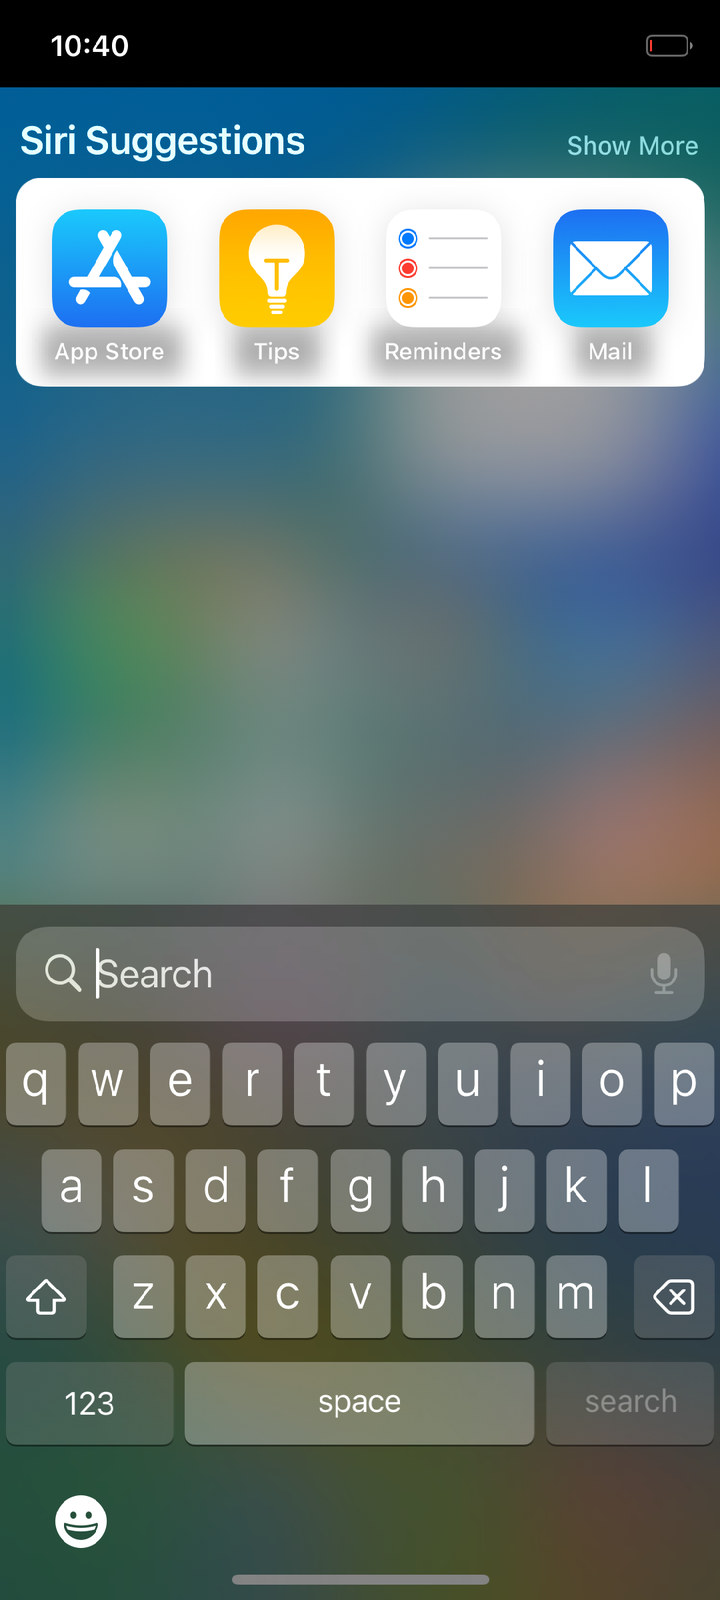
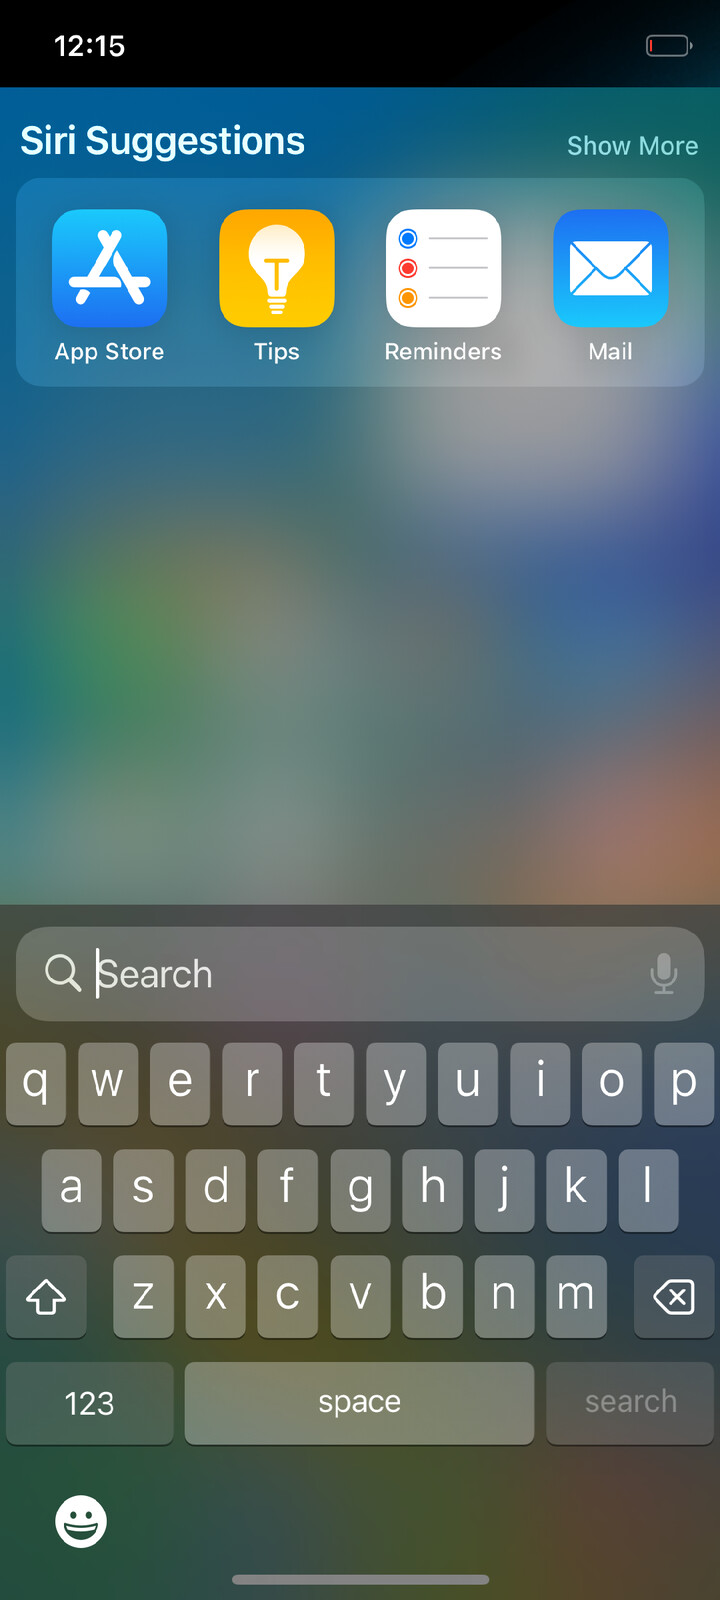
GPU: a census of what CoreAnimation's OpenGL ES renderer draws with no program
Boot-arg glcensus=1. eagl.c writes down every draw CoreAnimation makes with no
program -- by function, the first time each is met with where it is, its textures,
the blending, the numbers CoreAnimation has for it and how the draw is made here --
and every ten seconds the count of each in those seconds and since the start; with
them the functions CoreAnimation asked for and was refused (inject.c passes those
on). The names of the ninety functions are in redwood_gl.h for both.

A walk through the system with it on the phone (lock screen, Today view, App
Library, Search, Control Center, an icon's menu, the application switcher, Settings,
alerts, five applications' first sheets) met ten of them: c4p and vcm, drawn with our
programs since the last commit, hom through its table; ds8, vrd, vrb and opa drawn as
plain pictures; lub and edr, over the whole screen with no texture, not drawn; sb3
and p3c asked for and refused.

Where the library has no EXT_shader_framebuffer_fetch (Mesa's software rasteriser,
gl=1 in QEMU) the program for vcm cannot be made: such a draw is then left out
instead of showing its mask as a picture.

docs/search.jpg: Siri Suggestions as they are since the colour matrix over
premultiplied pixels is drawn (the picture before was older than that).

Claude-Session: https://claude.ai/code/session_01HPcJ8BL7rxkk1tgb6KqnwL

Changed region(s): [[0.0, 0.0938, 0.9778, 0.25], [0.825, 0.0, 1.0, 0.0625], [0.0611, 0.0, 0.1833, 0.0312]]

diff --git a/userland/src/eagl.c b/userland/src/eagl.c
@@ -43,8 +43,9 @@
  * either on; gltrace_place=X0,Y0,X1,Y1 writes down, of those frames, only the draws whose corners
  * reach into that rectangle, a line each (lines "gl-at:"; writing everything down is slow, and a
  * window server that is slow draws other frames), gltrace_look=1 adds the pixel each of them
- * left in the middle of itself; glshaders=1 writes down the text of every
- * shader, glshow=TEXTURE puts that texture over the corner of the picture, glplain=0 leaves the
+ * left in the middle of itself; glcensus=1 keeps count of the draws CoreAnimation makes with no
+ * program and of the functions it asks for in vain (see census_draw()); glshaders=1 writes down
+ * the text of every shader, glshow=TEXTURE puts that texture over the corner of the picture, glplain=0 leaves the
  * draws without a program alone, glcopy=1 copies every IOSurface as if the library could not
  * share one, glwait=1 waits for the GPU at the end of every frame and glwait=0 never (see
  * wait_for_frames), glfetch=0 keeps EXT_shader_framebuffer_fetch from CoreAnimation (see
@@ -220,6 +221,7 @@ struct eagl {
 	GLint plain_matrix, plain_textured, lookup_matrix;
 	GLuint vibrant, masking;        /* two more: what a colour matrix does to what is behind, and to the layer */
 	int blended;                    /* blending is off for such a draw, to be put back after it */
+	bool no_vibrant;                /* the first of the two could not be made */
 	GLint vibrant_matrix, vibrant_colours, masking_matrix, masking_colours;
 	unsigned unit;                  /* the texture unit being spoken of */
 	GLuint bound[8];                /* the 2D texture bound to each of the first units */
@@ -283,6 +285,7 @@ static int wait_for_frames = 1;
 static int fetch_offered = 1;
 
 static const char *eagl_slot_name(unsigned offset);
+static void census_report(void);
 
 static void
 eagl_enter(struct eagl *e, unsigned offset)
@@ -797,6 +800,7 @@ frame_end(struct eagl *e, bool finished)
 	if (e->frames == 30 || e->frames % 200 == 0) {
 		summary(e);
 	}
+	census_report();
 	if (e->frames == 600 && e->errors == 0) {
 		check_errors = 0;
 	}
@@ -1263,29 +1267,180 @@ plain_program(const char *fragment, const char *what)
 	return program;
 }
 
+/*
+ * A census (boot-arg glcensus=1) of what CoreAnimation's OpenGL ES renderer has no shader for and
+ * meets all the same: every draw it makes with no program, by function, and every time it asks
+ * for a function and is told there is none (it then draws the thing another way, or not at
+ * all). Written down: each case the first time it is met, with what it is made of -- where on
+ * which framebuffer, the textures, the blending, the numbers CoreAnimation has for the function
+ * (a filter's inputs) and how the draw is made here; every ten seconds, what there was of each
+ * in those seconds (which is what tells the screens of a scenario apart); and with that the
+ * count of each since the start.
+ */
+enum { CENSUS_NOT_DRAWN, CENSUS_PLAIN, CENSUS_TABLE, CENSUS_VIBRANT, CENSUS_MASKING, CENSUS_KINDS };
+static const char *const census_kinds[CENSUS_KINDS] = {
+	"NOT DRAWN (no program, and no texture or nothing of ours to draw it with)", "drawn as the picture it is given (colour times texture)",
+	"drawn through a table (ours, for the home indicator)", "drawn with our program for a colour matrix over what is behind",
+	"drawn with our program for a colour matrix over premultiplied pixels",
+};
+static int census_on;
+static struct census {
+	unsigned draws[CENSUS_KINDS], lately[CENSUS_KINDS];
+	unsigned refused, refused_lately;
+	uint8_t said;                   /* a bit for each kind met */
+} census[90];
+static uint64_t census_told;
+
+static const char *
+census_name(unsigned function)
+{
+	static const char names[] = REDWOOD_CA_FUNCTIONS;
+	static char name[4];
+
+	memcpy(name, function < 90 ? names + 4 * function : "?  ", 3);
+	return name;
+}
+
+/* From inject.c: CoreAnimation asked whether the function it is about to use exists, and was told no. */
+void
+redwood_gl_function_refused(unsigned function)
+{
+	if (census_on && function < 90) {
+		census[function].refused++;
+		census[function].refused_lately++;
+	}
+}
+
+static void
+census_draw(struct eagl *e, unsigned function, unsigned kind)
+{
+	char textures[200] = "", numbers[200] = "";
+	GLint source = 0, destination = 0, viewport[4] = { 0, 0, 0, 0 };
+	float low[2] = { 0, 0 }, high[2] = { 0, 0 };
+	size_t used = 0;
+
+	if (!census_on || function >= 90) {
+		return;
+	}
+	census[function].draws[kind]++;
+	census[function].lately[kind]++;
+	if (census[function].said & (1u << kind)) {
+		return;
+	}
+	census[function].said |= (uint8_t)(1u << kind);
+	for (unsigned unit = 0; unit < 4; unit++) {
+		GLint width = 0, height = 0, format = 0;
+
+		if (e->bound[unit] == 0) {
+			continue;
+		}
+		glActiveTexture(GL_TEXTURE0 + unit);
+		glGetTexLevelParameteriv(GL_TEXTURE_2D, 0, GL_TEXTURE_WIDTH, &width);
+		glGetTexLevelParameteriv(GL_TEXTURE_2D, 0, GL_TEXTURE_HEIGHT, &height);
+		glGetTexLevelParameteriv(GL_TEXTURE_2D, 0, GL_TEXTURE_INTERNAL_FORMAT, &format);
+		used += (size_t)snprintf(textures + used, sizeof(textures) - used, " [%u] %d x %d (%#x)", unit, width, height,
+		    (unsigned)format);
+	}
+	glActiveTexture(GL_TEXTURE0 + e->unit);
+	for (unsigned i = 0; i < 4 && e->arrays[0].pointer != NULL && e->arrays[0].type == GL_FLOAT && e->arrays[0].size >= 2; i++) {
+		float place[2];
+
+		memcpy(place, (const uint8_t *)e->arrays[0].pointer + i * (size_t)(e->arrays[0].stride ? e->arrays[0].stride :
+		    4 * e->arrays[0].size), sizeof(place));
+		for (unsigned c = 0; c < 2; c++) {
+			low[c] = i == 0 || place[c] < low[c] ? place[c] : low[c];
+			high[c] = i == 0 || place[c] > high[c] ? place[c] : high[c];
+		}
+	}
+	used = 0;
+	for (unsigned i = 0; i < function_given[function] && used < sizeof(numbers) - 16; i++) {
+		used += (size_t)snprintf(numbers + used, sizeof(numbers) - used, " %.3g", (double)function_values[function][i]);
+	}
+	glGetIntegerv(GL_BLEND_SRC_RGB, &source);
+	glGetIntegerv(GL_BLEND_DST_RGB, &destination);
+	glGetIntegerv(GL_VIEWPORT, viewport);
+	say("redwood-gl: census: function %u (\"%s\") with no program, %s: first at %g,%g to %g,%g of framebuffer %u (%d x %d); "
+	    "textures%s; blending %s (%#x, %#x); its numbers:%s\n", function, census_name(function), census_kinds[kind], (double)low[0],
+	    (double)low[1], (double)high[0], (double)high[1], e->framebuffer, viewport[2], viewport[3], textures[0] ? textures : " none",
+	    glIsEnabled(GL_BLEND) ? "on" : "off", (unsigned)source, (unsigned)destination, numbers[0] ? numbers : " none");
+}
+
+/* Every ten seconds: what there was since the last time, and in all. */
+static void
+census_report(void)
+{
+	char lately[900] = "", all[900] = "";
+	size_t used_lately = 0, used_all = 0;
+	uint64_t now = now_us();
+
+	if (!census_on || now - census_told < 10000000) {
+		return;
+	}
+	census_told = now;
+	for (unsigned f = 0; f < 90; f++) {
+		struct census *c = &census[f];
+		unsigned drawn = 0, drawn_lately = 0;
+
+		for (unsigned k = 0; k < CENSUS_KINDS; k++) {
+			drawn += c->draws[k];
+			drawn_lately += c->lately[k];
+			c->lately[k] = 0;
+		}
+		if ((drawn_lately != 0 || c->refused_lately != 0) && used_lately < sizeof(lately) - 40) {
+			used_lately += (size_t)snprintf(lately + used_lately, sizeof(lately) - used_lately, " %u %s x%u", f, census_name(f),
+			    drawn_lately);
+			if (c->refused_lately != 0) {
+				used_lately += (size_t)snprintf(lately + used_lately, sizeof(lately) - used_lately, " (refused x%u)", c->refused_lately);
+			}
+		}
+		if ((drawn != 0 || c->refused != 0) && used_all < sizeof(all) - 60) {
+			used_all += (size_t)snprintf(all + used_all, sizeof(all) - used_all, " %u %s x%u", f, census_name(f), drawn);
+			if (c->draws[CENSUS_NOT_DRAWN] != 0) {
+				used_all += (size_t)snprintf(all + used_all, sizeof(all) - used_all, " (x%u not drawn)", c->draws[CENSUS_NOT_DRAWN]);
+			}
+			if (c->refused != 0) {
+				used_all += (size_t)snprintf(all + used_all, sizeof(all) - used_all, " (refused x%u)", c->refused);
+			}
+		}
+		c->refused_lately = 0;
+	}
+	if (lately[0] != 0) {
+		say("redwood-gl: census: in the last ten seconds:%s\n", lately);
+		say("redwood-gl: census: since the start:%s\n", all);
+	}
+}
+
 static bool
 plain_draw_begin(struct eagl *e, GLint enabled[3])
 {
 	static const GLfloat identity[16] = { 1, 0, 0, 0, 0, 1, 0, 0, 0, 0, 1, 0, 0, 0, 0, 1 };
 	static uint8_t said[90];
-	unsigned function = ca_context != NULL ? *(*(uint8_t **)((char *)ca_context + 0x10) + 0x10) : 0;
+	unsigned function = ca_context != NULL ? *(*(uint8_t **)((char *)ca_context + 0x10) + 0x10) : 90;      /* (90: not known yet) */
 	GLint rows = 0;
 	GLuint program;
 
-	if (e->program != 0 || !plain_draws || (plain_draws == 1 && e->bound[0] == 0)) {
+	if (e->program != 0) {
+		return false;
+	}
+	if (!plain_draws || (plain_draws == 1 && e->bound[0] == 0)) {
+		census_draw(e, function, CENSUS_NOT_DRAWN);
 		return false;
 	}
 	if (function < 90 && !said[function]) {
 		said[function] = 1;
-		say("redwood-gl: a draw with no program is CoreAnimation's function %u\n", function);
+		say("redwood-gl: a draw with no program is CoreAnimation's function %u (\"%s\")\n", function, census_name(function));
 	}
 	e->blended = 0;
-	if (e->bound[0] != 0 && plain_draws != 3 && ((function == FUNCTION_VIBRANT_MATRIX && fetch_offered) ||
+	if (e->bound[0] != 0 && plain_draws != 3 && function < 90 && ((function == FUNCTION_VIBRANT_MATRIX && fetch_offered) ||
 	    function == FUNCTION_MATRIX_PREMULTIPLIED) && function_given[function] == 20) {
 		bool vibrant = function == FUNCTION_VIBRANT_MATRIX;
 
 		if (vibrant && e->vibrant == 0) {
+			GLint good = 0;
+
 			e->vibrant = plain_program(vibrant_fragment, "a colour matrix over what is behind");
+			glGetProgramiv(e->vibrant, GL_LINK_STATUS, &good);
+			e->no_vibrant = !good;                  /* (a library without the extension: Mesa's software one) */
 			e->vibrant_matrix = glGetUniformLocation(e->vibrant, "vertex_matrix");
 			e->vibrant_colours = glGetUniformLocation(e->vibrant, "colours");
 		} else if (!vibrant && e->masking == 0) {
@@ -1293,6 +1448,11 @@ plain_draw_begin(struct eagl *e, GLint enabled[3])
 			e->masking_matrix = glGetUniformLocation(e->masking, "vertex_matrix");
 			e->masking_colours = glGetUniformLocation(e->masking, "colours");
 		}
+		if (vibrant && e->no_vibrant) {
+			census_draw(e, function, CENSUS_NOT_DRAWN);     /* better nothing than the mask as a picture */
+			return false;
+		}
+		census_draw(e, function, vibrant ? CENSUS_VIBRANT : CENSUS_MASKING);
 		program = vibrant ? e->vibrant : e->masking;
 		glUseProgram(program);
 		glUniformMatrix4fv(vibrant ? e->vibrant_matrix : e->masking_matrix, 1, 0, e->matrix != NULL ? e->matrix : identity);
@@ -1330,6 +1490,7 @@ plain_draw_begin(struct eagl *e, GLint enabled[3])
 		}
 		program = e->plain;
 	}
+	census_draw(e, function, rows == 1 ? CENSUS_TABLE : CENSUS_PLAIN);
 	glUseProgram(program);
 	glUniformMatrix4fv(program == e->plain ? e->plain_matrix : e->lookup_matrix, 1, 0, e->matrix != NULL ? e->matrix : identity);
 	if (program == e->plain) {
@@ -2193,6 +2354,7 @@ install(void)
 			trace_placed = 1;
 		}
 		all_shaders = strstr(arguments, "glshaders=1") != NULL;
+		census_on = strstr(arguments, "glcensus=1") != NULL;
 		if ((argument = strstr(arguments, "glplain=")) != NULL) {
 			plain_draws = (int)strtoul(argument + 8, NULL, 10);
 		}

diff --git a/userland/src/inject.c b/userland/src/inject.c
@@ -42,6 +42,7 @@
 #include <sys/sysctl.h>
 #include <unistd.h>
 
+#include "redwood_gl.h"
 #include "redwood_input.h"
 
 extern const void *_dyld_get_shared_cache_range(size_t *length);
@@ -213,20 +214,20 @@ my_render_update(void *server, void *update, unsigned *flags)
 #define VT_GLES_CONTEXT         0x1d5b3b540UL   /* vtable for CA::OGL::GLESContext */
 
 static int gl_loaded;                           /* CoreAnimation draws with OpenGL ES (opengl_es() below) */
+static void (*gl_function_refused)(unsigned function);  /* our OpenGL ES library keeps count (eagl.c, the census) */
 static int (*orig_function_supported)(void *context);
 
 static int
 my_function_supported(void *context)
 {
-	static const char names[] =
-	    "clr img ida cim cid mua m1a lrp lrc lra add spl s1a cma bds bco bim c33 c3b c4b c4p c3a c3x c4x bia grl ds4 ds6 "
-	    "ds8 ups db2 db4 nb7 n11 n15 n19 n23 n27 vrd vrb sb3 axl rad rac con vcm vdk vlt map mpc crv hue clm hom opa met "
-	    "srl ega sdr alt p3c edr hrm lut ovr ovl lub aup alm stl pc0 pc1 prc psl ps0 ps1 psm psr pcr pbl peo bib asg a75 "
-	    "a50 atc ipc apl 3dl cst ";
+	static const char names[] = REDWOOD_CA_FUNCTIONS;
 	static uint8_t said[256];
 	int supported = orig_function_supported(context);
 	uint8_t function = *(*(uint8_t **)((char *)context + 0x10) + 0x10);
 
+	if (!supported && gl_function_refused != NULL) {
+		gl_function_refused(function);
+	}
 	if (!supported && !said[function]) {
 		said[function] = 1;
 		say("redwood: CoreAnimation's OpenGL ES renderer has no function %u (\"%.3s\"): what needs it is not drawn\n",
@@ -763,6 +764,7 @@ opengl_es(void)
 	gl_loaded = 1;
 	gl_function_values = (void (*)(void *, unsigned, unsigned, size_t, size_t, const float *))dlsym(library,
 	    "redwood_gl_function_values");
+	gl_function_refused = (void (*)(unsigned))dlsym(library, "redwood_gl_function_refused");
 }
 
 __attribute__((constructor))

diff --git a/userland/src/redwood_gl.h b/userland/src/redwood_gl.h
@@ -20,4 +20,14 @@ const char *redwood_gl_library(void);                           /* for the log *
  */
 int redwood_gl_surface_texture(struct redwood_gl *gl, uint32_t surface);
 
+/*
+ * CoreAnimation draws a layer's pixels with one of ninety "functions" (a fragment shader each); these
+ * are the names its Metal renderer has for them, four characters a function, in their order.
+ */
+#define REDWOOD_CA_FUNCTIONS \
+	"clr img ida cim cid mua m1a lrp lrc lra add spl s1a cma bds bco bim c33 c3b c4b c4p c3a c3x c4x bia grl ds4 ds6 " \
+	"ds8 ups db2 db4 nb7 n11 n15 n19 n23 n27 vrd vrb sb3 axl rad rac con vcm vdk vlt map mpc crv hue clm hom opa met " \
+	"srl ega sdr alt p3c edr hrm lut ovr ovl lub aup alm stl pc0 pc1 prc psl ps0 ps1 psm psr pcr pbl peo bib asg a75 " \
+	"a50 atc ipc apl 3dl cst "
+
 #endif
